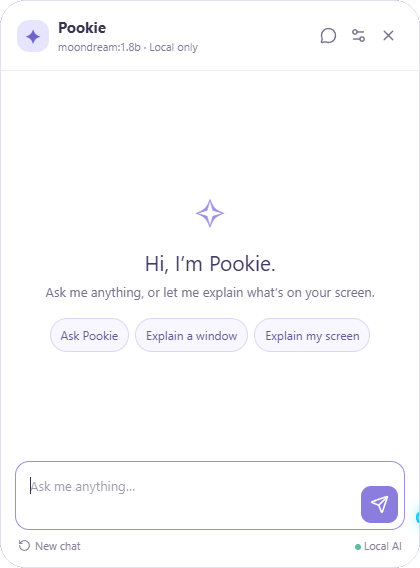
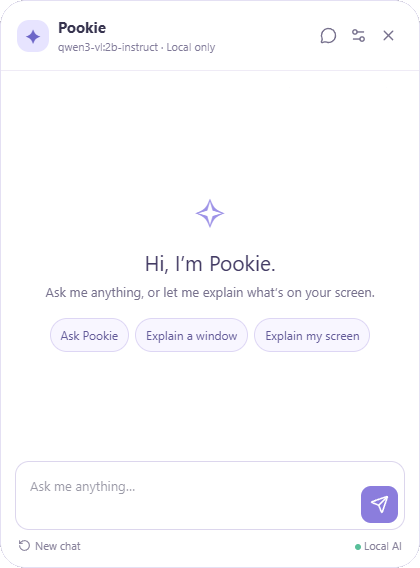
Keep Ollama context warm and document native vision demo

Changed region(s): [[0.1548, 0.0599, 0.5262, 0.0898], [0.9905, 0.8979, 1.0, 0.9278], [0.031, 0.8081, 0.0619, 0.838]]

diff --git a/src-tauri/src/ai.rs b/src-tauri/src/ai.rs
@@ -159,13 +159,10 @@ pub async fn stream_chat(
         payload.insert(0, serde_json::json!({"role":"system","content":"You are Pookie, a helpful local desktop assistant. Answer the latest question directly and concisely. If you are unsure, say so instead of inventing details."}));
     }
     let url = base.join("api/chat").map_err(|e| e.to_string())?;
-    let options = if has_image {
-        // A bounded capture and one current question fit in this context.
-        // On small GPUs, a larger KV cache can push vision layers onto CPU.
-        serde_json::json!({"num_predict":256,"num_ctx":2048})
-    } else {
-        serde_json::json!({"num_predict":384})
-    };
+    // Keep one context size for both chat and vision so switching modes does
+    // not force Ollama to reload the model. It also fits small GPUs better.
+    let options =
+        serde_json::json!({"num_predict": if has_image { 256 } else { 384 },"num_ctx":2048});
     let request = serde_json::json!({"model":model,"messages":payload,"stream":true,"think":false,"keep_alive":"10m","options":options});
     let response = client(crate::storage::load()?.timeout as u64)?
         .post(url)

diff --git a/docs/social/instagram-post.md b/docs/social/instagram-post.md
@@ -1,6 +1,6 @@
 # Pookie Instagram carousel draft
 
-Use `pookie-instagram-01.png` and `pookie-instagram-02.png` in that order. Both are 1080 × 1350 pixels. The interface panels were cropped from the running native Windows Tauri app; the mascot is the project's approved character asset. The images are presentation graphics, not a claim of a finished product.
+Use `pookie-instagram-01.png`, `pookie-instagram-02.png`, and `pookie-instagram-03.png` in that order. All are 1080 × 1350 pixels. The interface panels were cropped from the running native Windows Tauri app; the mascot is the project's approved character asset. Slide 3 shows a real local vision reply to a controlled Notepad test window. The images are presentation graphics, not a claim of a finished product.
 
 ## Caption
 
@@ -18,3 +18,4 @@ Code and local setup: github.com/Irish-Joseph/Pookie-Desktop
 
 1. Purple graphic introducing Pookie, a friendly lavender robot, beside a real screenshot of the native Windows chat overlay.
 2. Lavender graphic showing Pookie beside a real screenshot of the native settings panel with a local Ollama endpoint and model selector.
+3. Dark purple graphic with a real native Pookie chat screenshot: a question about a Notepad window's secret code and the local vision model's answer, BLUE-42.

diff --git a/README.md b/README.md
@@ -14,6 +14,10 @@ The first two images are cropped from the running **native Windows Tauri overlay
 | --- | --- |
 | ![Native Pookie Windows desktop chat overlay](docs/screenshots/native-overlay.png) | ![Native Pookie settings with loopback Ollama endpoint and vision model](docs/screenshots/native-settings.png) |
 
+In a controlled Notepad test, the native overlay captured the active window and the local vision model correctly read `BLUE-42`:
+
+![Native Pookie vision reply to a captured Notepad window](docs/screenshots/native-vision-response.png)
+
 The following images are from a browser integration test of the same Pookie interface against a real, locally running Ollama instance. The test used a temporary Tauri command bridge; these are **not native desktop screenshots**.
 
 | Connected to local Ollama | Live model reply |
